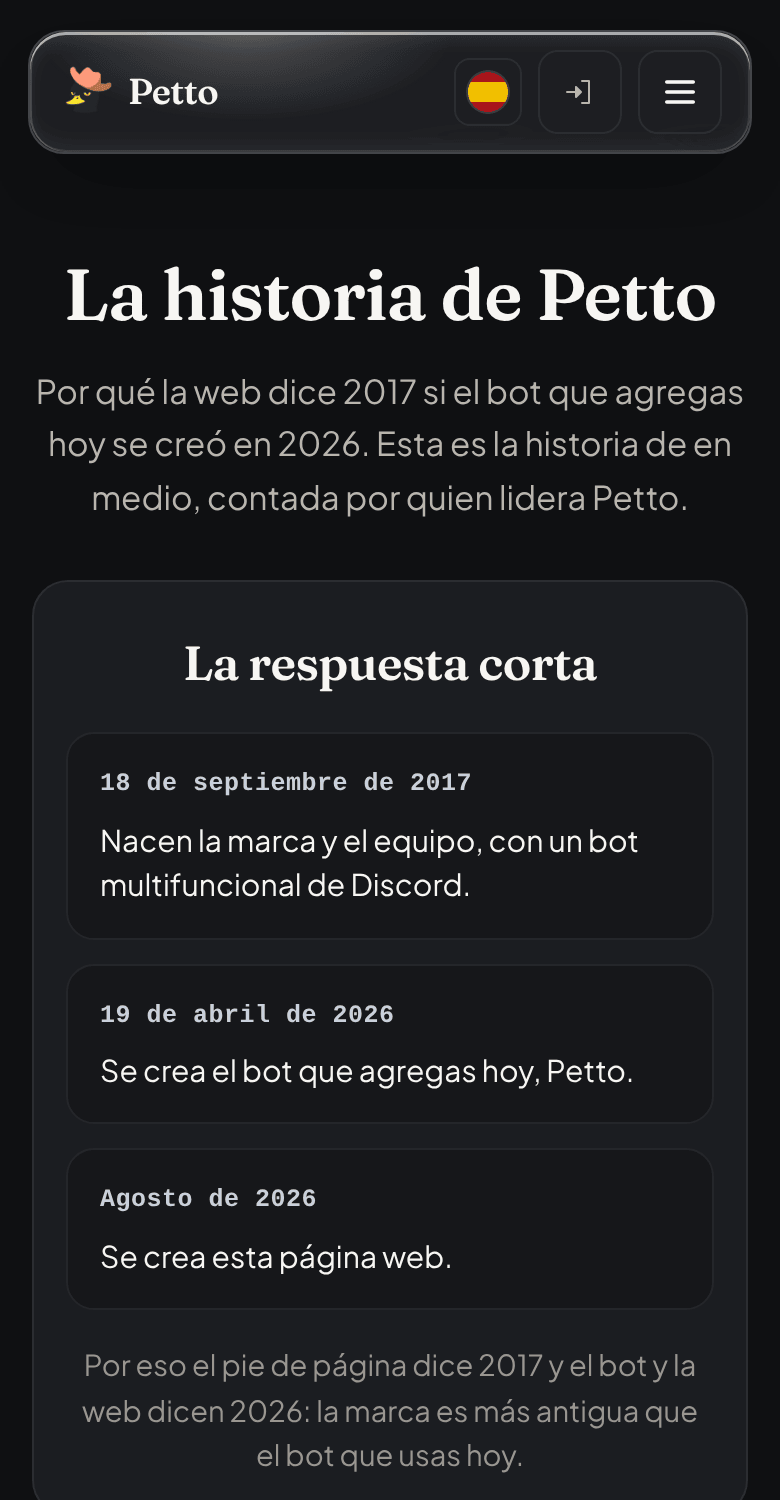
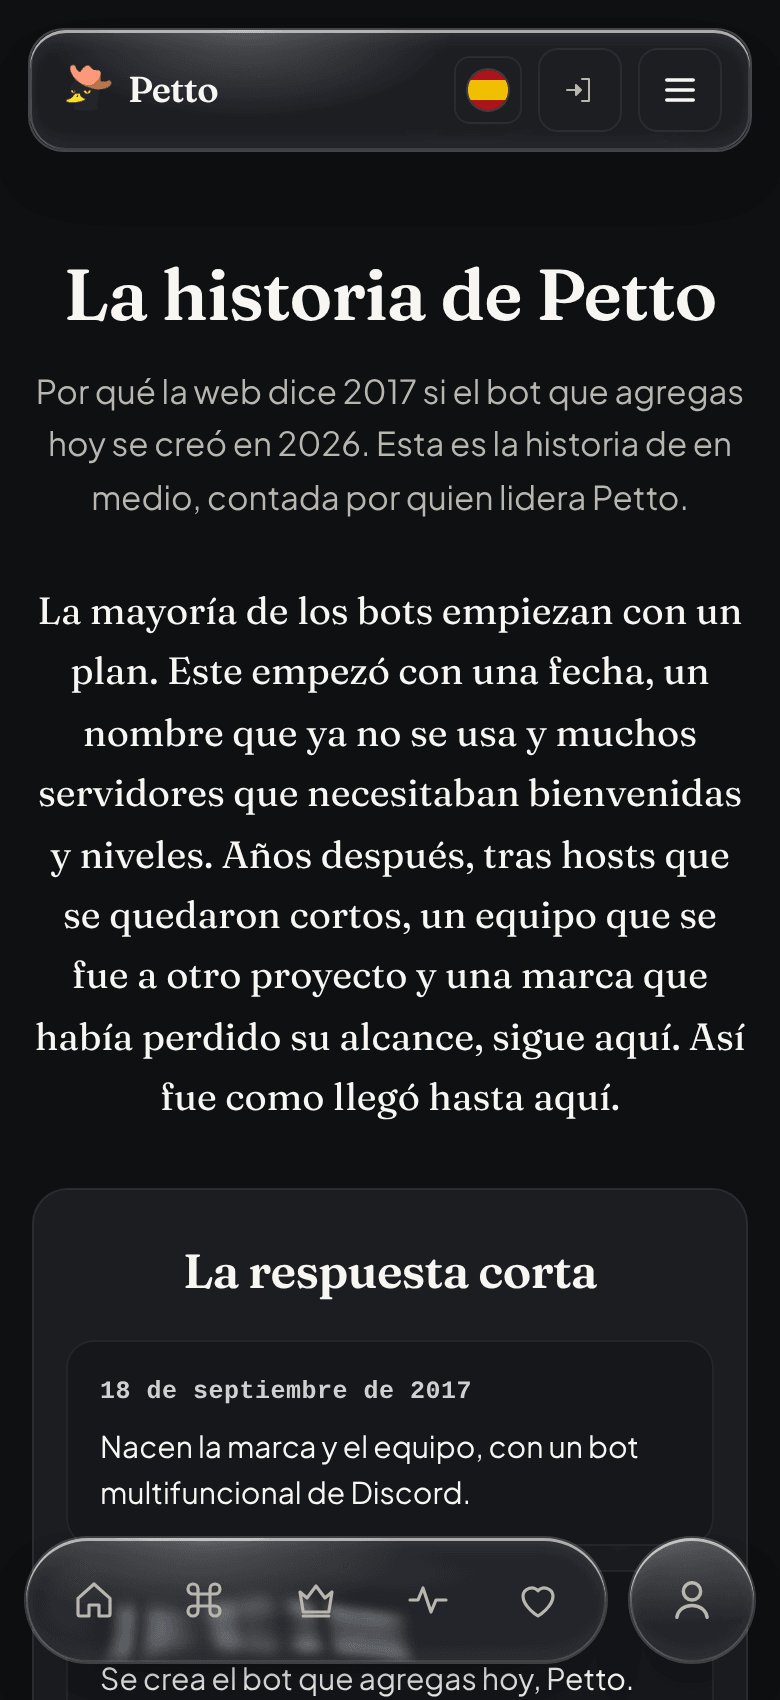
History page: more story and a more dramatic tone, built only on what the maintainer told
An opening paragraph before the story, a title and a few sentences for every year (it was one line), the 2016 account, the money and the idea of the partners, the five rebuilds and the closing told in more detail. Nothing is invented: every fact is one he gave; the drama is in how it is told. scripts/check-history-page.mjs now also checks that the page opens with a paragraph and that every year is told in a few sentences, in the three languages.

Currently log: petto-history-page

diff --git a/src/data/historyCopy.ts b/src/data/historyCopy.ts
@@ -10,6 +10,8 @@ export interface HistoryCopy {
   description: string;
   h1: string;
   lede: string;
+  /** A short paragraph before the story: the tone of the page. */
+  prologue: string;
   short: { title: string; items: { when: string; text: string }[]; note: string };
   numbers: { value: string; label: string }[];
   timelineTitle: string;
@@ -26,6 +28,7 @@ export const HISTORY_COPY: Record<Locale, HistoryCopy> = {
     description: 'The brand began in 2017, the bot you add today was made in April 2026 and this site in August 2026. This is the story in between, told by the person who leads Petto.',
     h1: 'The history of Petto',
     lede: 'Why the site says 2017 when the bot you add today was made in 2026. This is the story in between, told by the person who leads Petto.',
+    prologue: 'Most bots start with a plan. This one started with a date, a name that is no longer used and many servers that needed welcomes and levels. Years later, after hosts that ran short, a team that moved on to something else and a brand that had lost its reach, it is still here. This is how it got here.',
     short: {
       title: 'The short answer',
       items: [
@@ -43,19 +46,19 @@ export const HISTORY_COPY: Record<Locale, HistoryCopy> = {
     ],
     timelineTitle: 'Year by year',
     steps: [
-      { when: 'September 18, 2017', title: 'It begins', text: 'The team is born with a multipurpose bot, like the ones of that time: welcomes, levels and the basics every server asked for. It had another name, with a Japanese touch.' },
-      { when: '2019', title: 'I join the team', text: 'I join as a support developer: when something failed, I was there to fix it.' },
-      { when: '2021', title: '30,000 servers', text: 'During the pandemic the bot reaches 30,000 servers.' },
-      { when: '2022', title: 'The hard year', text: 'We run short of host and of databases. I put my own money into the bot and suggested that it work with partners, and that is how the partnerships began.' },
-      { when: '2023', title: 'No more updates', text: 'Discord changes a lot and the bot stops receiving updates: the people who led it started working on a new project, and the bot was left without direction.' },
-      { when: '2024', title: 'The direction ends', text: 'The doors close and the old direction ends. I become the owner and I ask myself what to do. The brand had lost much of its reach, so I decide to leave it behind and start a new one.' },
-      { when: '2025', title: 'A replacement', text: 'Around May I make a replacement for the 2017 bot. It was known as Peto One, also called Bli.' },
-      { when: 'April 19, 2026', title: 'Petto', text: 'Petto, the bot of today, is created.', note: 'I did not build it on top of the 2017 bot: that one already had its own servers, and starting over on it did not seem right. Petto is a new bot.' },
-      { when: 'August 2026', title: 'This website', text: 'The website is created and, from there, everything grows.' },
+      { when: 'September 18, 2017', title: 'It begins', text: 'On September 18, 2017 a new Discord bot goes live. It is a multipurpose bot, like the ones of that time: welcomes, levels and the basics that every server asked for. It does not have the name you know today. It had another one, with a Japanese touch. Nobody knew yet how far it would go.' },
+      { when: '2019', title: 'The one who fixes things', text: 'In 2019 I join the team as a support developer. My job is simple and it never stops: when something fails, I have to be there to fix it. I had been on Discord since 2016, so none of this was new to me, but being on the inside of a bot that thousands of servers depended on was something else.' },
+      { when: '2021', title: 'Thirty thousand', text: 'Then comes the pandemic, and the bot grows like never before: in 2021 it reaches 30,000 servers. For a moment it looks like nothing can stop it.' },
+      { when: '2022', title: 'The year everything cracked', text: 'In 2022 the problems begin. The bot has grown more than its host and its databases can hold, and we are running short of both. I put my own money into it, because letting it fall was not an option for me. And I had an idea: that the bot work with partners. That is how the partnerships began, and they helped it keep going.' },
+      { when: '2023', title: 'Silence', text: 'In 2023 the updates stop. Discord keeps changing, adding something new every few months, and the bot does not follow: the people who led it had started building a new project, and the bot was left without anyone at the helm. It still worked, but nobody was making it grow.' },
+      { when: '2024', title: 'The doors close', text: 'In 2024 the doors close. The old direction comes to an end and, all of a sudden, the question lands on me: I am the owner. What do we do now? The brand had lost most of its reach, and I could have tried to hold on to it. I decided to leave it behind and begin a new one.' },
+      { when: '2025', title: 'Testing the ground', text: 'Around May of 2025 I make a replacement for the 2017 bot. It was known as Peto One, also called Bli. It was not Petto yet, but it was already something of mine, and the first step of everything that came after.' },
+      { when: 'April 19, 2026', title: 'Petto', text: 'On April 19, 2026 the bot is born with the name you know: Petto. It is not a patch over something old, it is a new bot, built with everything learned along these years.', note: 'I did not build it on top of the 2017 bot: that one already had its own servers, and starting over on it did not seem right. Petto is a new bot.' },
+      { when: 'August 2026', title: 'A home on the web', text: 'In August 2026 the website arrives, and Petto gets a home of its own: a place where you can see what it does and set it up. From there, everything grows.' },
     ],
-    code: { title: 'The code', text: 'The code I received was written in Go. I rewrote its main parts (levels, welcomes and the embed system) and started adding things to it.' },
-    why: { title: 'Why Petto', text: 'The first bot had a Japanese style, so I chose a name that sounds both Japanese and a little Italian, and that to me is a pretty word: Petto.' },
-    today: { title: 'Petto today', text: 'I have been in the team since 2019 and I have led it since 2024. Thank you for being here.', sign: 'Liam', add: 'Add to Discord', team: 'Meet the team' },
+    code: { title: 'The code', text: 'The code I received was written in Go. I rewrote its main parts (levels, welcomes and the embed system) and started adding things to it. It was not the only time: the bot has been rebuilt five times, two by the first team and three by me.' },
+    why: { title: 'Why Petto', text: 'The first bot had a Japanese style, so when I had to choose a name I wanted to keep a bit of that. Petto sounds Japanese and also a little Italian, and to me it is a pretty word. That is why Petto.' },
+    today: { title: 'Petto today', text: 'Nine years after that day in September, there is still a bot, a team and a person who stayed. I have been in the team since 2019 and I have led it since 2024. This story is not over: it is still being written, one update at a time. Thank you for being here.', sign: 'Liam', add: 'Add to Discord', team: 'Meet the team' },
   },
   es: {
     name: 'Historia de Petto',
@@ -63,6 +66,7 @@ export const HISTORY_COPY: Record<Locale, HistoryCopy> = {
     description: 'La marca nació en 2017, el bot que agregas hoy se creó en abril de 2026 y esta web en agosto de 2026. Esta es la historia de en medio, contada por quien lidera Petto.',
     h1: 'La historia de Petto',
     lede: 'Por qué la web dice 2017 si el bot que agregas hoy se creó en 2026. Esta es la historia de en medio, contada por quien lidera Petto.',
+    prologue: 'La mayoría de los bots empiezan con un plan. Este empezó con una fecha, un nombre que ya no se usa y muchos servidores que necesitaban bienvenidas y niveles. Años después, tras hosts que se quedaron cortos, un equipo que se fue a otro proyecto y una marca que había perdido su alcance, sigue aquí. Así fue como llegó hasta aquí.',
     short: {
       title: 'La respuesta corta',
       items: [
@@ -80,19 +84,19 @@ export const HISTORY_COPY: Record<Locale, HistoryCopy> = {
     ],
     timelineTitle: 'Año por año',
     steps: [
-      { when: '18 de septiembre de 2017', title: 'Empieza todo', text: 'Nace el equipo con un bot multifuncional, de los de esa época: bienvenidas, niveles y lo básico que pedía cualquier servidor. Tenía otro nombre, con un toque japonés.' },
-      { when: '2019', title: 'Me uno al equipo', text: 'Entro como desarrollador de soporte: si algo fallaba, yo estaba ahí para solucionarlo.' },
-      { when: '2021', title: '30.000 servidores', text: 'En plena pandemia el bot llega a 30.000 servidores.' },
-      { when: '2022', title: 'El año difícil', text: 'Nos quedamos cortos de host y de bases de datos. Puse mi propio dinero en el bot y propuse que trabajara con partners, y así empezaron las alianzas.' },
-      { when: '2023', title: 'Sin más actualizaciones', text: 'Discord cambia mucho y el bot deja de recibir actualizaciones: quienes lo dirigían empezaron a trabajar en un proyecto nuevo y el bot quedó sin dirección.' },
-      { when: '2024', title: 'Termina la dirección', text: 'Se cierran las puertas y la antigua dirección termina. Yo paso a ser el dueño y me pregunto qué hacer. La marca había perdido mucho alcance, así que decido dejarla atrás y crear una nueva.' },
-      { when: '2025', title: 'Un reemplazo', text: 'Por mayo hago un reemplazo del bot de 2017. Se conocía como Peto One, también llamado Bli.' },
-      { when: '19 de abril de 2026', title: 'Petto', text: 'Se crea Petto, el bot de hoy.', note: 'No lo construí sobre el bot de 2017: ese ya tenía sus propios servidores y empezar de nuevo encima de él no me parecía bien. Petto es un bot nuevo.' },
-      { when: 'Agosto de 2026', title: 'Esta página web', text: 'Se crea la página web y, desde ahí, todo crece.' },
+      { when: '18 de septiembre de 2017', title: 'Empieza todo', text: 'El 18 de septiembre de 2017 sale al aire un bot nuevo de Discord. Es un bot multifuncional, de los de esa época: bienvenidas, niveles y lo básico que pedía cualquier servidor. No tenía el nombre que conoces hoy. Tenía otro, con un toque japonés. Nadie sabía todavía hasta dónde iba a llegar.' },
+      { when: '2019', title: 'El que arregla las cosas', text: 'En 2019 me uno al equipo como desarrollador de soporte. Mi trabajo es simple y no para nunca: si algo falla, tengo que estar ahí para arreglarlo. Yo ya estaba en Discord desde 2016, así que nada de esto me era nuevo, pero estar por dentro de un bot del que dependían miles de servidores era otra cosa.' },
+      { when: '2021', title: 'Treinta mil', text: 'Luego llega la pandemia y el bot crece como nunca: en 2021 llega a 30.000 servidores. Por un momento parece que nada lo puede detener.' },
+      { when: '2022', title: 'El año en que todo se agrietó', text: 'En 2022 empiezan los problemas. El bot creció más de lo que aguantaban su host y sus bases de datos, y nos quedamos cortos de las dos cosas. Puse mi propio dinero, porque dejar que se cayera no era una opción para mí. Y tuve una idea: que el bot trabajara con partners. Así empezaron las alianzas, y ayudaron a que siguiera adelante.' },
+      { when: '2023', title: 'Silencio', text: 'En 2023 las actualizaciones se detienen. Discord sigue cambiando, trae algo nuevo cada pocos meses, y el bot no lo sigue: quienes lo dirigían habían empezado a construir un proyecto nuevo y el bot quedó sin nadie al timón. Seguía funcionando, pero nadie lo hacía crecer.' },
+      { when: '2024', title: 'Se cierran las puertas', text: 'En 2024 se cierran las puertas. La antigua dirección termina y, de pronto, la pregunta me cae a mí: soy el dueño. ¿Y ahora qué hacemos? La marca había perdido casi todo su alcance, y yo pude haber intentado aferrarme a ella. Decidí dejarla atrás y empezar una nueva.' },
+      { when: '2025', title: 'Probando el terreno', text: 'Por mayo de 2025 hago un reemplazo del bot de 2017. Se conocía como Peto One, también llamado Bli. Todavía no era Petto, pero ya era algo mío, y el primer paso de todo lo que vino después.' },
+      { when: '19 de abril de 2026', title: 'Petto', text: 'El 19 de abril de 2026 nace el bot con el nombre que conoces: Petto. No es un parche sobre algo viejo, es un bot nuevo, hecho con todo lo aprendido en estos años.', note: 'No lo construí sobre el bot de 2017: ese ya tenía sus propios servidores y empezar de nuevo encima de él no me parecía bien. Petto es un bot nuevo.' },
+      { when: 'Agosto de 2026', title: 'Un hogar en la web', text: 'En agosto de 2026 llega la página web y Petto tiene un hogar propio: un lugar donde ver qué hace y configurarlo. Desde ahí, todo crece.' },
     ],
-    code: { title: 'El código', text: 'El código que recibí estaba hecho en Go. Reescribí sus partes principales (niveles, bienvenidas y el sistema de embeds) y empecé a añadirle cosas.' },
-    why: { title: 'Por qué Petto', text: 'El primer bot tenía un estilo japonés, así que elegí un nombre que suena japonés y un poco italiano, y que para mí es una palabra muy bonita: Petto.' },
-    today: { title: 'Petto hoy', text: 'Estoy en el equipo desde 2019 y lo dirijo desde 2024. Gracias por estar aquí.', sign: 'Liam', add: 'Añadir a Discord', team: 'Conocer al equipo' },
+    code: { title: 'El código', text: 'El código que recibí estaba hecho en Go. Reescribí sus partes principales (niveles, bienvenidas y el sistema de embeds) y empecé a añadirle cosas. No fue la única vez: el bot se ha reconstruido cinco veces, dos por el primer equipo y tres por mí.' },
+    why: { title: 'Por qué Petto', text: 'El primer bot tenía un estilo japonés, así que cuando tuve que elegir un nombre quise conservar un poco de eso. Petto suena japonés y también un poco italiano, y para mí es una palabra muy bonita. Por eso Petto.' },
+    today: { title: 'Petto hoy', text: 'Nueve años después de aquel día de septiembre, sigue habiendo un bot, un equipo y alguien que se quedó. Estoy en el equipo desde 2019 y lo dirijo desde 2024. Esta historia no ha terminado: se sigue escribiendo, una actualización a la vez. Gracias por estar aquí.', sign: 'Liam', add: 'Añadir a Discord', team: 'Conocer al equipo' },
   },
   'pt-BR': {
     name: 'História do Petto',
@@ -100,6 +104,7 @@ export const HISTORY_COPY: Record<Locale, HistoryCopy> = {
     description: 'A marca nasceu em 2017, o bot que você adiciona hoje foi criado em abril de 2026 e este site em agosto de 2026. Esta é a história do meio, contada por quem lidera o Petto.',
     h1: 'A história do Petto',
     lede: 'Por que o site diz 2017 se o bot que você adiciona hoje foi criado em 2026. Esta é a história do meio, contada por quem lidera o Petto.',
+    prologue: 'A maioria dos bots começa com um plano. Este começou com uma data, um nome que já não se usa e muitos servidores que precisavam de boas-vindas e níveis. Anos depois, depois de hospedagens que ficaram curtas, uma equipe que seguiu para outro projeto e uma marca que tinha perdido o alcance, ele continua aqui. Foi assim que chegou até aqui.',
     short: {
       title: 'A resposta curta',
       items: [
@@ -117,18 +122,18 @@ export const HISTORY_COPY: Record<Locale, HistoryCopy> = {
     ],
     timelineTitle: 'Ano a ano',
     steps: [
-      { when: '18 de setembro de 2017', title: 'Tudo começa', text: 'A equipe nasce com um bot multifuncional, desses da época: boas-vindas, níveis e o básico que qualquer servidor pedia. Tinha outro nome, com um toque japonês.' },
-      { when: '2019', title: 'Entro na equipe', text: 'Entro como desenvolvedor de suporte: se algo falhava, eu estava lá para resolver.' },
-      { when: '2021', title: '30.000 servidores', text: 'Em plena pandemia o bot chega a 30.000 servidores.' },
-      { when: '2022', title: 'O ano difícil', text: 'Ficamos curtos de hospedagem e de bancos de dados. Coloquei meu próprio dinheiro no bot e propus que ele trabalhasse com parceiros, e assim começaram as parcerias.' },
-      { when: '2023', title: 'Sem mais atualizações', text: 'O Discord muda muito e o bot deixa de receber atualizações: quem o dirigia começou a trabalhar em um projeto novo e o bot ficou sem direção.' },
-      { when: '2024', title: 'A direção termina', text: 'As portas se fecham e a antiga direção termina. Eu passo a ser o dono e me pergunto o que fazer. A marca tinha perdido muito alcance, então decido deixá-la para trás e criar uma nova.' },
-      { when: '2025', title: 'Um substituto', text: 'Por volta de maio faço um substituto do bot de 2017. Era conhecido como Peto One, também chamado Bli.' },
-      { when: '19 de abril de 2026', title: 'Petto', text: 'É criado o Petto, o bot de hoje.', note: 'Não o construí em cima do bot de 2017: aquele já tinha seus próprios servidores e começar de novo em cima dele não me parecia certo. O Petto é um bot novo.' },
-      { when: 'Agosto de 2026', title: 'Este site', text: 'O site é criado e, a partir daí, tudo cresce.' },
+      { when: '18 de setembro de 2017', title: 'Tudo começa', text: 'Em 18 de setembro de 2017 entra no ar um bot novo do Discord. É um bot multifuncional, desses da época: boas-vindas, níveis e o básico que qualquer servidor pedia. Não tinha o nome que você conhece hoje. Tinha outro, com um toque japonês. Ninguém sabia ainda até onde ele iria.' },
+      { when: '2019', title: 'Quem resolve as coisas', text: 'Em 2019 entro na equipe como desenvolvedor de suporte. Meu trabalho é simples e nunca para: se algo falha, tenho que estar lá para resolver. Eu já estava no Discord desde 2016, então nada disso era novo para mim, mas estar por dentro de um bot do qual milhares de servidores dependiam era outra coisa.' },
+      { when: '2021', title: 'Trinta mil', text: 'Depois vem a pandemia e o bot cresce como nunca: em 2021 chega a 30.000 servidores. Por um momento parece que nada pode pará-lo.' },
+      { when: '2022', title: 'O ano em que tudo rachou', text: 'Em 2022 começam os problemas. O bot cresceu mais do que sua hospedagem e seus bancos de dados aguentavam, e ficamos curtos nas duas coisas. Coloquei meu próprio dinheiro, porque deixar o bot cair não era uma opção para mim. E tive uma ideia: que o bot trabalhasse com parceiros. Assim começaram as parcerias, e elas ajudaram o bot a seguir em frente.' },
+      { when: '2023', title: 'Silêncio', text: 'Em 2023 as atualizações param. O Discord continua mudando, traz algo novo a cada poucos meses, e o bot não acompanha: quem o dirigia tinha começado a construir um projeto novo e o bot ficou sem ninguém no leme. Continuava funcionando, mas ninguém o fazia crescer.' },
+      { when: '2024', title: 'As portas se fecham', text: 'Em 2024 as portas se fecham. A antiga direção termina e, de repente, a pergunta cai em mim: eu sou o dono. E agora, o que fazemos? A marca tinha perdido quase todo o seu alcance, e eu poderia ter tentado me agarrar a ela. Decidi deixá-la para trás e começar uma nova.' },
+      { when: '2025', title: 'Testando o terreno', text: 'Por volta de maio de 2025 faço um substituto do bot de 2017. Era conhecido como Peto One, também chamado Bli. Ainda não era o Petto, mas já era algo meu, e o primeiro passo de tudo o que veio depois.' },
+      { when: '19 de abril de 2026', title: 'Petto', text: 'Em 19 de abril de 2026 nasce o bot com o nome que você conhece: Petto. Não é um remendo sobre algo velho, é um bot novo, feito com tudo o que foi aprendido nesses anos.', note: 'Não o construí em cima do bot de 2017: aquele já tinha seus próprios servidores e começar de novo em cima dele não me parecia certo. O Petto é um bot novo.' },
+      { when: 'Agosto de 2026', title: 'Um lar na web', text: 'Em agosto de 2026 chega o site e o Petto ganha um lar próprio: um lugar onde ver o que ele faz e configurá-lo. A partir daí, tudo cresce.' },
     ],
-    code: { title: 'O código', text: 'O código que recebi estava feito em Go. Reescrevi suas partes principais (níveis, boas-vindas e o sistema de embeds) e comecei a acrescentar coisas.' },
-    why: { title: 'Por que Petto', text: 'O primeiro bot tinha um estilo japonês, então escolhi um nome que soa japonês e um pouco italiano, e que para mim é uma palavra muito bonita: Petto.' },
-    today: { title: 'Petto hoje', text: 'Estou na equipe desde 2019 e a dirijo desde 2024. Obrigado por estar aqui.', sign: 'Liam', add: 'Adicionar ao Discord', team: 'Conhecer a equipe' },
+    code: { title: 'O código', text: 'O código que recebi estava feito em Go. Reescrevi suas partes principais (níveis, boas-vindas e o sistema de embeds) e comecei a acrescentar coisas. Não foi a única vez: o bot foi reconstruído cinco vezes, duas pela primeira equipe e três por mim.' },
+    why: { title: 'Por que Petto', text: 'O primeiro bot tinha um estilo japonês, então, quando tive que escolher um nome, quis manter um pouco disso. Petto soa japonês e também um pouco italiano, e para mim é uma palavra muito bonita. Por isso Petto.' },
+    today: { title: 'Petto hoje', text: 'Nove anos depois daquele dia de setembro, ainda existe um bot, uma equipe e alguém que ficou. Estou na equipe desde 2019 e a dirijo desde 2024. Esta história não terminou: continua sendo escrita, uma atualização de cada vez. Obrigado por estar aqui.', sign: 'Liam', add: 'Adicionar ao Discord', team: 'Conhecer a equipe' },
   },
 };
